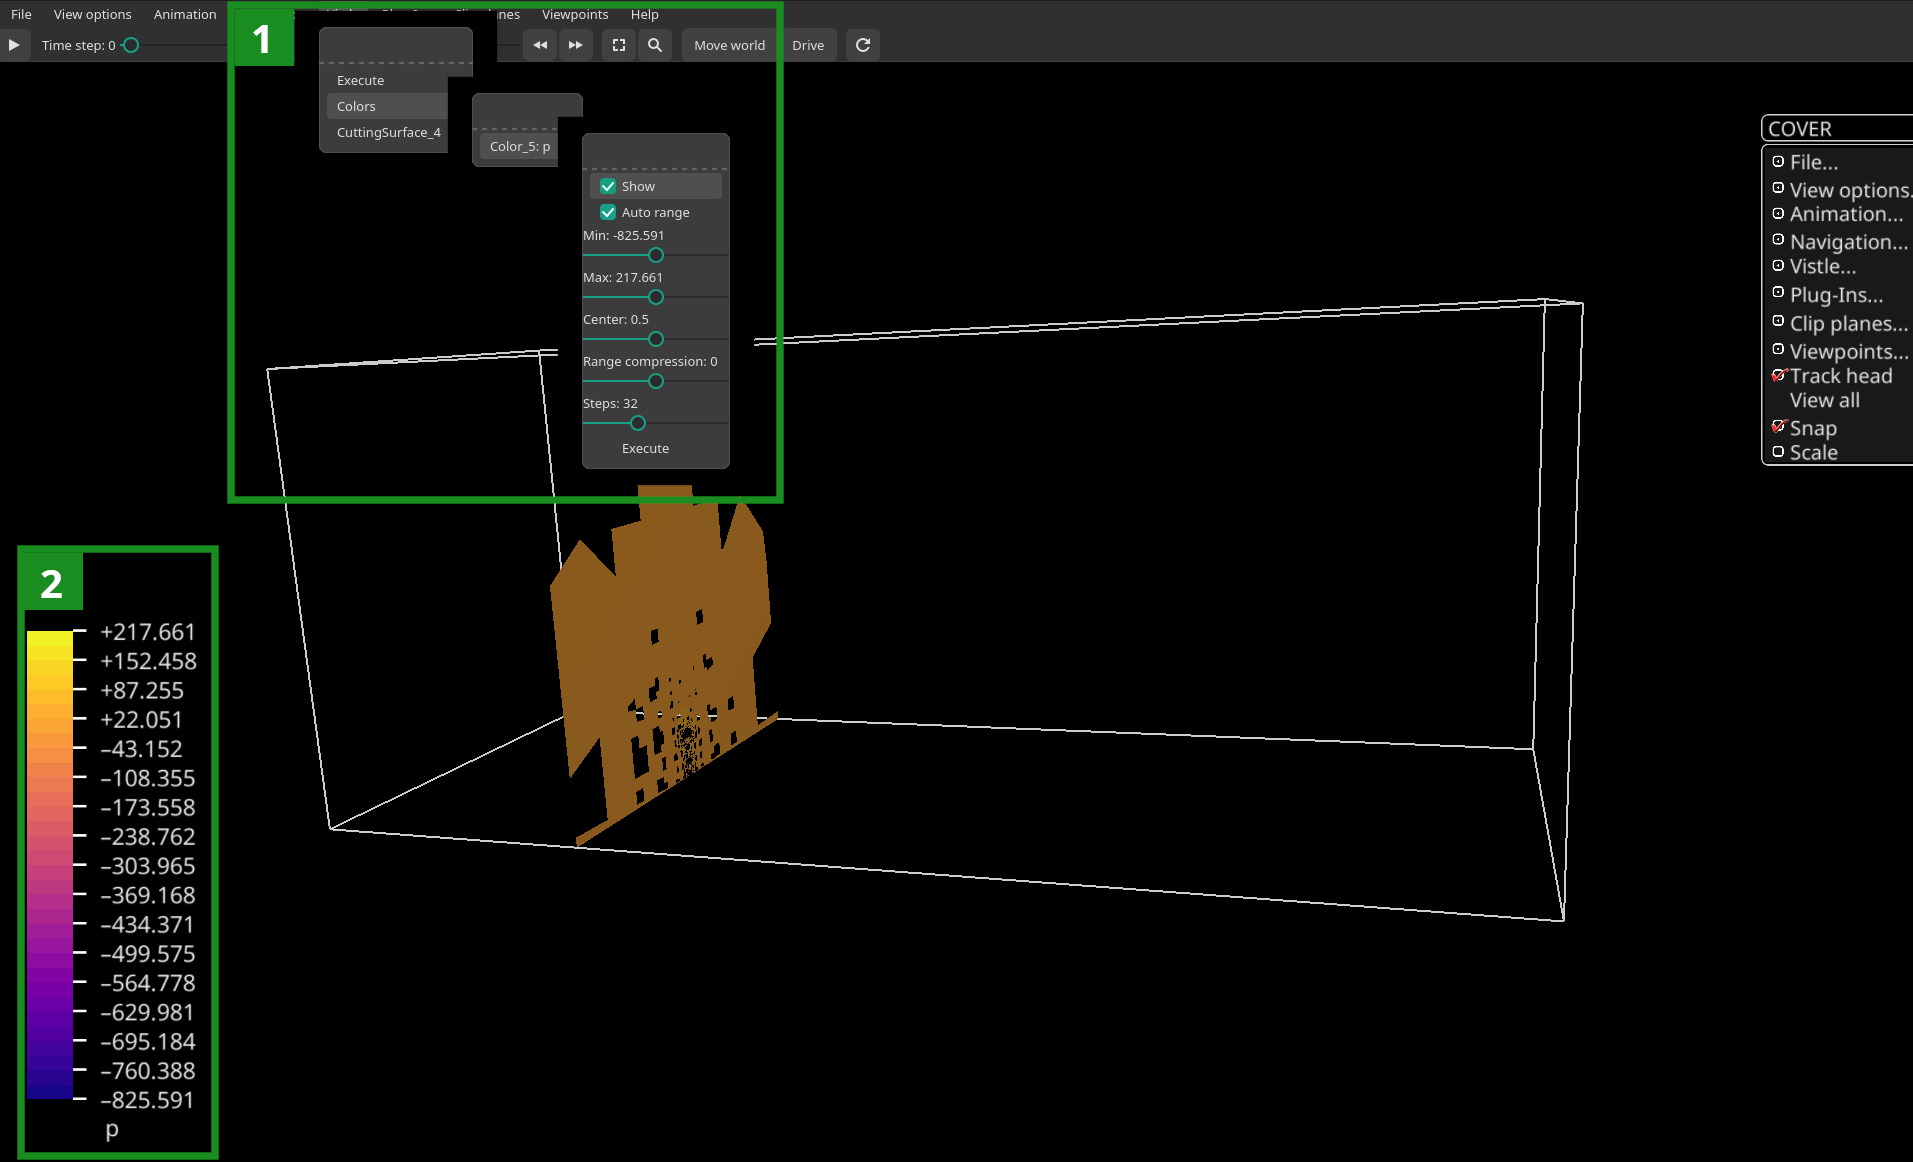
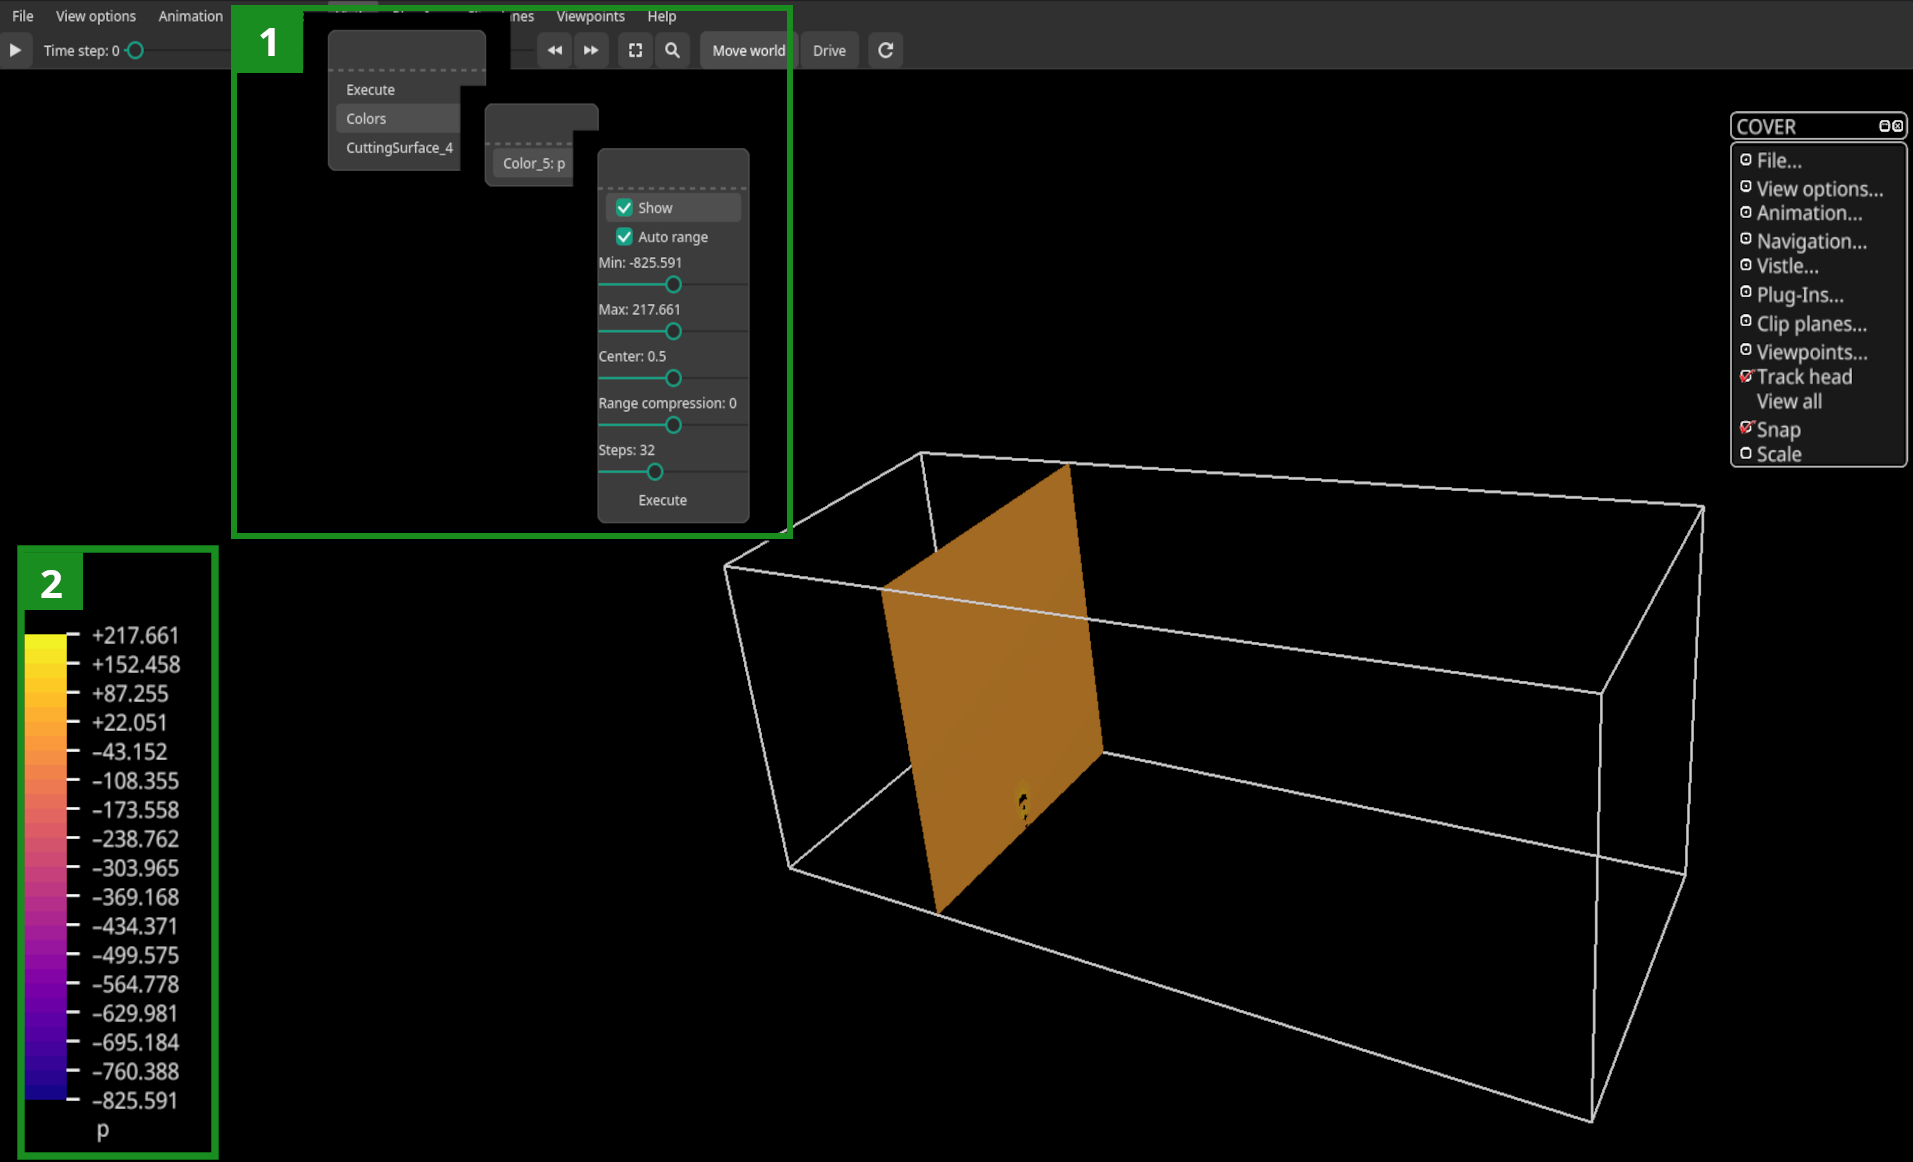
first draft for 'Visualizing Grids' and 'Visualizin Scalar Data Fields'

diff --git a/docs/intro/example/openfoam.md b/docs/intro/example/openfoam.md
@@ -2,7 +2,7 @@
 
 <!-- TODO: add Visualizing Grids -->
 
-In this follow-along tutorial you will learn how to visualize a sample CFD dataset which was simulated using OpenFOAM.
+In this step-by-step tutorial you will learn how to visualize a sample CFD dataset which was simulated using OpenFOAM.
 
 ## Overview
 - [Getting the Sample Dataset](#getting-the-sample-dataset)
@@ -55,9 +55,9 @@ You can save the workflow anytime with the `File` &rarr; `Save`  buttons or  by 
 Locate the `ReadFoam` module in the module browser and drag and drop it into the workflow area on the left:
 ![](openfoam/openfoam_select_readfoam.png)
 
-Note that you can also search for modules by name with `Filter`.
+Note that you can also search for modules by name with `Filter` search bar at the top of the module browser.
 
-Left-click on the `ReadFoam` module to open the Module Browser on the right:
+Left-click on the `ReadFoam` module to adjust its module parameters:
 
 ![](openfoam/openfoam_readfoam_moduleparameters.png)
 
@@ -70,19 +70,38 @@ The first port of `ReadFoam` now contains the data grid used in the simulation, 
 **Tip:** For large datasets consisting of multiple timesteps, you can select which timesteps should be read in (see 3 in figure above). By default, all timesteps are read in. You can specify the range of timesteps with the `first step` and `last step` parameters and you can also change the `step increment`. To, e.g., read in every 5th time step in the dataset, you would set `step increment` to 5, `first step` to 0 (this is the first time step) and `last step` to -1 (which is the last time step). Reducing the number of time steps is useful to reduce the execution time and RAM requirements for very large datasets, which makes it easier to play around with different visualization modules and module parameters while creating a visualization workflow. Once you are happy with the workflow, you can read in the entire dataset.
 
 ## Visualizing Grids
+While it is more typical to visualize the data fields mapped onto the grid generated by the simulation, it is, of course, also possible to visualize the grid itself.
+
+One possible visualization workflow for grids is shown in the following figure:
+
 ![](openfoam/openfoam_visualizing_grid.png)
 
+When adding the [](project:#mod-COVER) module (see 1 in figure above) to a visualization workflow, the renderer COVER is, by default, automatically opened on the desktop (see 2 in figure above), although it can also be configured to be run in a VR environment with the `COCONFIG` environment variable.
+
+Since the grid returned by `ReadFoam` is a polygon grid, i.e., a geometry, we can directly connect it to the `COVER` module to visualize it. For other grid types, like uniform or unstructured grids, we would have to place a [](project:#mod-DomainSurface) module before COVER.
+
+The [](project:#mod-BoundingBox) module (see 3 in figure above) can be used to visualize the bounding box of a grid. It also provides information on the grid's extrema (see 4 in figure above).
+
 ## Visualizing Scalar Data Fields
-<!-- remove grid visualization, otherwise in the way -->
+In this section we will discuss a typical visualization workflow for scalar data fields, such as the pressure fields in the sample dataset:
 
 <!--  p-Cuttingsurface: show how to change parameters of Cuttingsurface (in Module Browser and in Cover wiht pick interactor, this is easier with a BoundingBox) <-- also show how to add/adjust colormap! -->
 ![](openfoam/openfoam_scalar_color.png)
 
+Each data field, be it scalar or vector, can be mapped to color with the [](project:#mod-Color) module. When connecting its second port to `COVER`, the desired color map (in this example 'Plasma') will automatically be applied to each rendered object which contains (part of) the scalar field.  
+
+The color map (see 2 in figure below) can be added to the renderer by toggling the `Show` button (see 1 in figure below; `Vistle` &rarr; `Colors` &rarr; `Color_x` (where x is the ID of the `Color` module, this can be seen in the top right corner of the Vistle module) &rarr; `Show`): 
 ![](openfoam/openfoam_scalar_colormap.png)
+
+The [](project:#mod-CuttingSurface) module cuts a three-dimensional grid along basic geometries, such as planes, spheres or cylinders. For this example, we cut the grid using a plane. There are two ways to the define the cutting geometry, either by adjusting the module parameters:
 
 ![](openfoam/openfoam_scalar_cuttingSurface.png)
 
+Or, interactively in the renderer by using a pick interactor:
+
 ![](openfoam/openfoam_scalar_pickInteractor.png)
+
+The pick interactor (see 2 in figure above) can be enabled by clicking the `Vistle` tab at the top of the renderer, selecting the correct `CuttingSurface_x` entry (x is the ID of the desired `CuttingSurface` module which is displayed at the top right corner of the module rectangle) and setting `Pick Interactor` to true (see 1 in figure above). In a desktop environment, the pick interactor can be moved by dragging the end of the arrow to the desired position and rotated by moving the tip of the arrow.
 
 ## Visualizing Vector Data Fields
 
